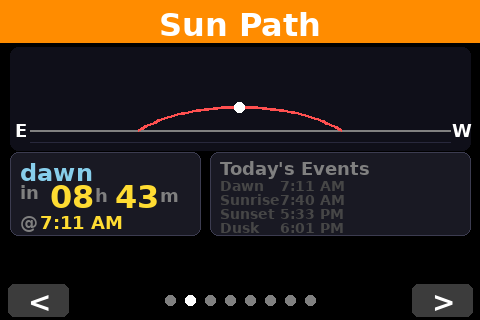
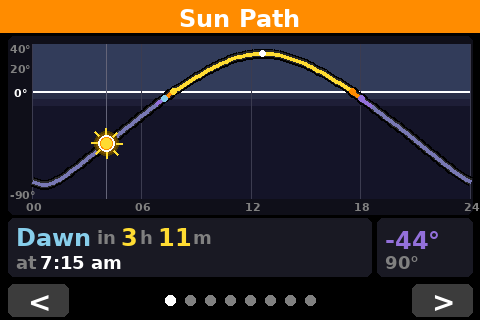
Update README and screenshot for new sunpath view

diff --git a/README.md b/README.md
@@ -38,11 +38,14 @@ Navigate between eight views using the **< >** buttons at the bottom of the scre
    - Solar position (elevation/azimuth) with visual sun arc
 
 2. **Sun Path View**
-   - Visual sun trajectory chart showing path from East to West
-   - Current sun position on the arc
-   - Countdown timer to next solar event (dawn, sunrise, noon, sunset, dusk)
-   - Event timeline with all daily solar events
-   - Passed events shown in gray, upcoming events in color
+   - Full 24-hour elevation chart from midnight to midnight
+   - Dynamic Y-axis range based on actual daily min/max elevation
+   - Color-coded sun path: yellow (day), orange (civil twilight), purple (nautical), gray (night)
+   - Twilight zone backgrounds showing civil, nautical, and astronomical regions
+   - Prominent sun icon with glow effect and rays at current position
+   - Event markers for dawn, sunrise, noon, sunset, and dusk
+   - Countdown to next solar event: "Dawn in Xh Ym" with event time
+   - Compact elevation/azimuth display
 
 3. **Weather Forecast View**
    - Large current temperature display
